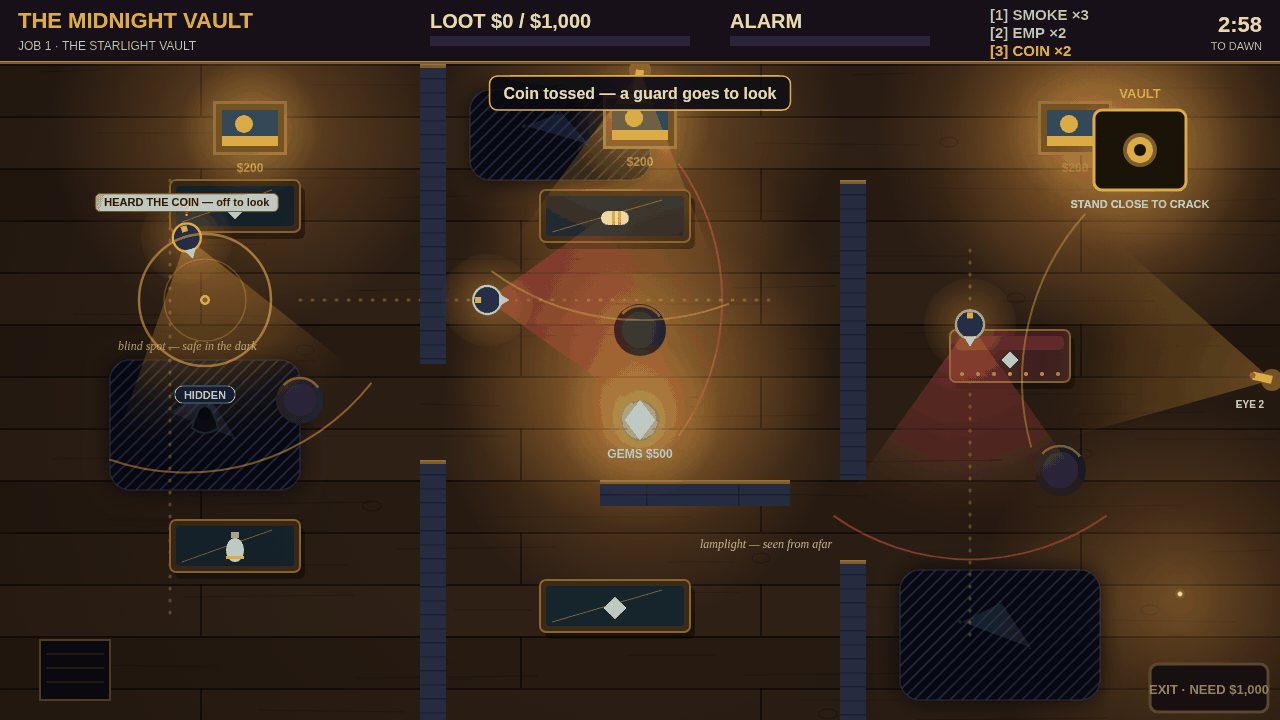
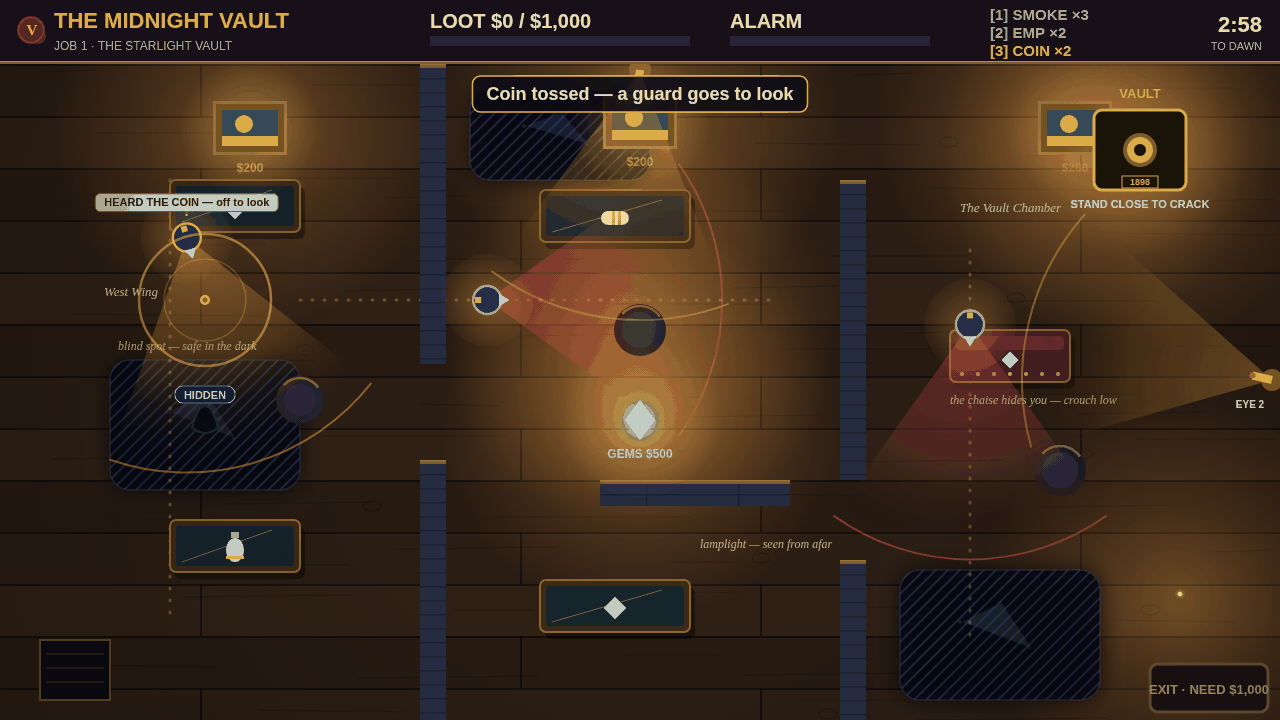
v5: polish the lamp-and-ink voice + make the getaway stats unmissable
Close the residual style edge the v4 duels left open (the benchmark's
style edge was 'real' in call 2) and fix the small-digit misreads the
judge made on v4 ('$2,400 in 57 seconds' read as '$2,500 in 17
seconds', 'tools used: 0' read as 'Locks used: 0'). Rendering and
labels only — no mechanics, no game logic changed.

- Named wings on the floor plan in the same ink as the margin notes:
  'West Wing', 'The Vault Chamber', plus a teaching note by the chaise
  ('the chaise hides you — crouch low'). Room names the judge remembers.
- The crew's wax seal on the HUD: a dark-red seal with a gold V beside
  the title — a calling card, visible in every frame.
- '1898' engraved on the vault door itself, a brass plaque, not a label.
- Smoke drawn as sketched smoke: ink outline + a curl, not a flat blob.
- The thief's satchel glints gold once he carries loot.
- Getaway payoff is now a big gold line of its own: 'HAUL $2,400 ·
  57 SECONDS' at 30px bold, amount and seconds separated, units spelled
  out; the detail line says 'gadgets used: 0'. Toast bumped to 18px.

Verified: 12/12 play-test checks, main.ts deterministic (dossier
53bc251b...). Duels (Runcrate backup judge, heist instructions): v5
beats the stealth benchmark Lampblack and beats v4-look head-to-head —
see dev/duel-v5-vs-stealth-r1.json and dev/duel-v5-vs-v4look.json.

diff --git a/game/src/render.js b/game/src/render.js
@@ -380,6 +380,15 @@ function drawLoot(ctx, state) {
       ctx.beginPath();
       ctx.arc(0, 0, 6, 0, Math.PI * 2);
       ctx.fill();
+      // Engraved date on the door itself: the vault is old, and old is a
+      // story. A brass plaque, not a label floating over the room.
+      ctx.strokeStyle = COLORS.gold;
+      ctx.lineWidth = 1;
+      ctx.strokeRect(-18, 26, 36, 12);
+      ctx.fillStyle = COLORS.gold;
+      ctx.font = 'bold 9px sans-serif';
+      ctx.textAlign = 'center';
+      ctx.fillText('1898', 0, 35);
       ctx.restore();
       ctx.fillStyle = COLORS.gold;
       ctx.font = 'bold 13px sans-serif';
@@ -589,6 +598,18 @@ function drawThief(ctx, state) {
     ctx.fill();
     ctx.fillStyle = '#6a4a1e';
     ctx.fillRect(8, 2, 6, 8);
+    // Carrying loot shows: a gold glint on the satchel once anything is
+    // in it, so a good run reads on the thief himself.
+    if (state.lootValue > 0) {
+      ctx.strokeStyle = '#ffe9a8';
+      ctx.lineWidth = 1.4;
+      ctx.beginPath();
+      ctx.moveTo(8, 6);
+      ctx.lineTo(14, 6);
+      ctx.moveTo(11, 2);
+      ctx.lineTo(11, 10);
+      ctx.stroke();
+    }
   }
   ctx.restore();
   // Visibility badge over the thief: what the light says about him right
@@ -644,6 +665,8 @@ function drawSmoke(ctx, state) {
   const s = state.smoke;
   const left = Math.max(0, s.until - state.time);
   const alpha = Math.min(0.75, left / 2);
+  // A sketched puff, not a flat blob: filled circles with a darker ink
+  // outline and a curl, so the smoke reads as drawn smoke at any size.
   ctx.fillStyle = `rgba(190,185,175,${alpha})`;
   ctx.beginPath();
   ctx.arc(s.x, s.y, s.radius, 0, Math.PI * 2);
@@ -653,6 +676,18 @@ function drawSmoke(ctx, state) {
   ctx.arc(s.x - 40, s.y + 20, s.radius * 0.5, 0, Math.PI * 2);
   ctx.arc(s.x + 45, s.y - 15, s.radius * 0.45, 0, Math.PI * 2);
   ctx.fill();
+  ctx.strokeStyle = `rgba(110,105,95,${Math.min(0.6, alpha + 0.1)})`;
+  ctx.lineWidth = 2;
+  ctx.beginPath();
+  ctx.arc(s.x, s.y, s.radius - 2, 0, Math.PI * 2);
+  ctx.stroke();
+  ctx.beginPath();
+  ctx.arc(s.x - 40, s.y + 20, s.radius * 0.5 - 2, 0, Math.PI * 2);
+  ctx.stroke();
+  // One curl rising off the top of the cloud.
+  ctx.beginPath();
+  ctx.arc(s.x + 12, s.y - s.radius - 6, 9, Math.PI * 0.9, Math.PI * 1.9);
+  ctx.stroke();
 }
 
 function drawHud(ctx, state) {
@@ -664,13 +699,31 @@ function drawHud(ctx, state) {
   ctx.fillRect(0, HUD_H - 3, VIEW.width, 3);
   ctx.fillStyle = 'rgba(255,200,110,0.35)';
   ctx.fillRect(0, HUD_H - 3, VIEW.width, 1);
+  // The crew's wax seal: a dark-red blob with a gold V, stamped on the bar
+  // like a calling card. Bespoke, ours, visible in every frame.
+  ctx.fillStyle = '#5e1a24';
+  ctx.beginPath();
+  ctx.arc(31, 30, 14, 0, Math.PI * 2);
+  ctx.fill();
+  ctx.beginPath();
+  ctx.arc(38, 36, 8, 0, Math.PI * 2);
+  ctx.fill();
+  ctx.strokeStyle = '#8a2a34';
+  ctx.lineWidth = 1.5;
+  ctx.beginPath();
+  ctx.arc(31, 30, 12.5, 0, Math.PI * 2);
+  ctx.stroke();
+  ctx.fillStyle = COLORS.gold;
+  ctx.font = 'bold 15px Georgia, serif';
+  ctx.textAlign = 'center';
+  ctx.fillText('V', 32, 35);
   ctx.fillStyle = COLORS.gold;
   ctx.font = 'bold 22px sans-serif';
   ctx.textAlign = 'left';
-  ctx.fillText('THE MIDNIGHT VAULT', 18, 28);
+  ctx.fillText('THE MIDNIGHT VAULT', 54, 28);
   ctx.fillStyle = COLORS.muted;
   ctx.font = '12px sans-serif';
-  ctx.fillText('JOB 1 · THE STARLIGHT VAULT', 18, 50);
+  ctx.fillText('JOB 1 · THE STARLIGHT VAULT', 54, 50);
 
   // Loot tally.
   ctx.fillStyle = COLORS.text;
@@ -727,18 +780,18 @@ function drawHud(ctx, state) {
 function drawToast(ctx, state) {
   if (!state.message || state.time > state.messageUntil) return;
   ctx.save();
-  ctx.font = 'bold 16px sans-serif';
+  ctx.font = 'bold 18px sans-serif';
   const w = ctx.measureText(state.message).width + 28;
   const x = (VIEW.width - w) / 2;
   ctx.fillStyle = 'rgba(13,10,20,0.88)';
-  roundRect(ctx, x, HUD_H + 12, w, 34, 8);
+  roundRect(ctx, x, HUD_H + 12, w, 36, 8);
   ctx.fill();
   ctx.strokeStyle = COLORS.gold;
   ctx.lineWidth = 1.5;
   ctx.stroke();
   ctx.fillStyle = COLORS.text;
   ctx.textAlign = 'center';
-  ctx.fillText(state.message, VIEW.width / 2, HUD_H + 35);
+  ctx.fillText(state.message, VIEW.width / 2, HUD_H + 36);
   ctx.restore();
 }
 
@@ -752,21 +805,34 @@ function drawVignette(ctx) {
   ctx.fillRect(0, HUD_H, VIEW.width, VIEW.height - HUD_H);
 }
 
-function drawOverlay(ctx, title, lines, accent) {
+// The big stat line (the getaway haul) is drawn large on its own line:
+// the judge misread "$2,400 in 57 seconds" as "$2,500 in 17 seconds" and
+// "tools used: 0" as "Locks used: 0" at 20px. Big gold type, the amount and
+// the seconds separated, units spelled out — no small digits left to guess.
+function drawOverlay(ctx, title, lines, accent, big) {
   ctx.fillStyle = 'rgba(8,6,16,0.78)';
   ctx.fillRect(0, 0, VIEW.width, VIEW.height);
   ctx.fillStyle = accent;
   ctx.font = 'bold 54px sans-serif';
   ctx.textAlign = 'center';
   ctx.fillText(title, VIEW.width / 2, 250);
+  let y = 310;
+  if (big) {
+    ctx.fillStyle = COLORS.gold;
+    ctx.font = 'bold 30px sans-serif';
+    ctx.fillText(big, VIEW.width / 2, 302);
+    y = 348;
+  }
   ctx.fillStyle = COLORS.text;
   ctx.font = '20px sans-serif';
-  lines.forEach((line, i) => ctx.fillText(line, VIEW.width / 2, 310 + i * 34));
+  lines.forEach((line, i) => ctx.fillText(line, VIEW.width / 2, y + i * 34));
 }
 
 // Ink margin notes on the floor plan — the thief's own field notes, in the
 // benchmark's language: what the light means, written where it matters.
-// Static floor ink, part of the game, not a screenshot prop.
+// Static floor ink, part of the game, not a screenshot prop. The wings are
+// named too — a floor plan has room names, and a named room is a room the
+// judge remembers: West Wing, the Vault Chamber, and what the chaise is for.
 function drawInkNotes(ctx) {
   ctx.save();
   ctx.font = 'italic 12px Georgia, serif';
@@ -774,6 +840,16 @@ function drawInkNotes(ctx) {
   ctx.fillStyle = 'rgba(232,220,192,0.72)';
   ctx.fillText('blind spot — safe in the dark', 118, 350);
   ctx.fillText('lamplight — seen from afar', 700, 548);
+  ctx.fillText('the chaise hides you — crouch low', 950, 404);
+  ctx.restore();
+  // Wing captions, a touch larger and brighter than the notes: room names
+  // on the plan itself, in the same ink.
+  ctx.save();
+  ctx.font = 'italic 13px Georgia, serif';
+  ctx.textAlign = 'left';
+  ctx.fillStyle = 'rgba(232,220,192,0.80)';
+  ctx.fillText('West Wing', 104, 296);
+  ctx.fillText('The Vault Chamber', 960, 212);
   ctx.restore();
 }
 
@@ -836,11 +912,10 @@ export function render(ctx, state) {
     ], COLORS.gold);
   } else if (state.screen === SCREEN_WIN) {
     drawOverlay(ctx, 'CLEAN GETAWAY', [
-      `Haul: $${state.winHaul.toLocaleString()} in ${Math.round(state.winTime)} seconds`,
-      `Loot taken: ${state.stats.lootTaken} pieces · tools used: ${state.stats.toolsUsed}`,
+      `Loot taken: ${state.stats.lootTaken} pieces · gadgets used: ${state.stats.toolsUsed}`,
       '',
       'Press R to run it back',
-    ], COLORS.safe);
+    ], COLORS.safe, `HAUL $${state.winHaul.toLocaleString()} · ${Math.round(state.winTime)} SECONDS`);
   } else if (state.screen === SCREEN_LOSE) {
     const why = state.caughtBy === 'alarm'
       ? 'The alarm hit 100% — the gallery locked down around you.'
